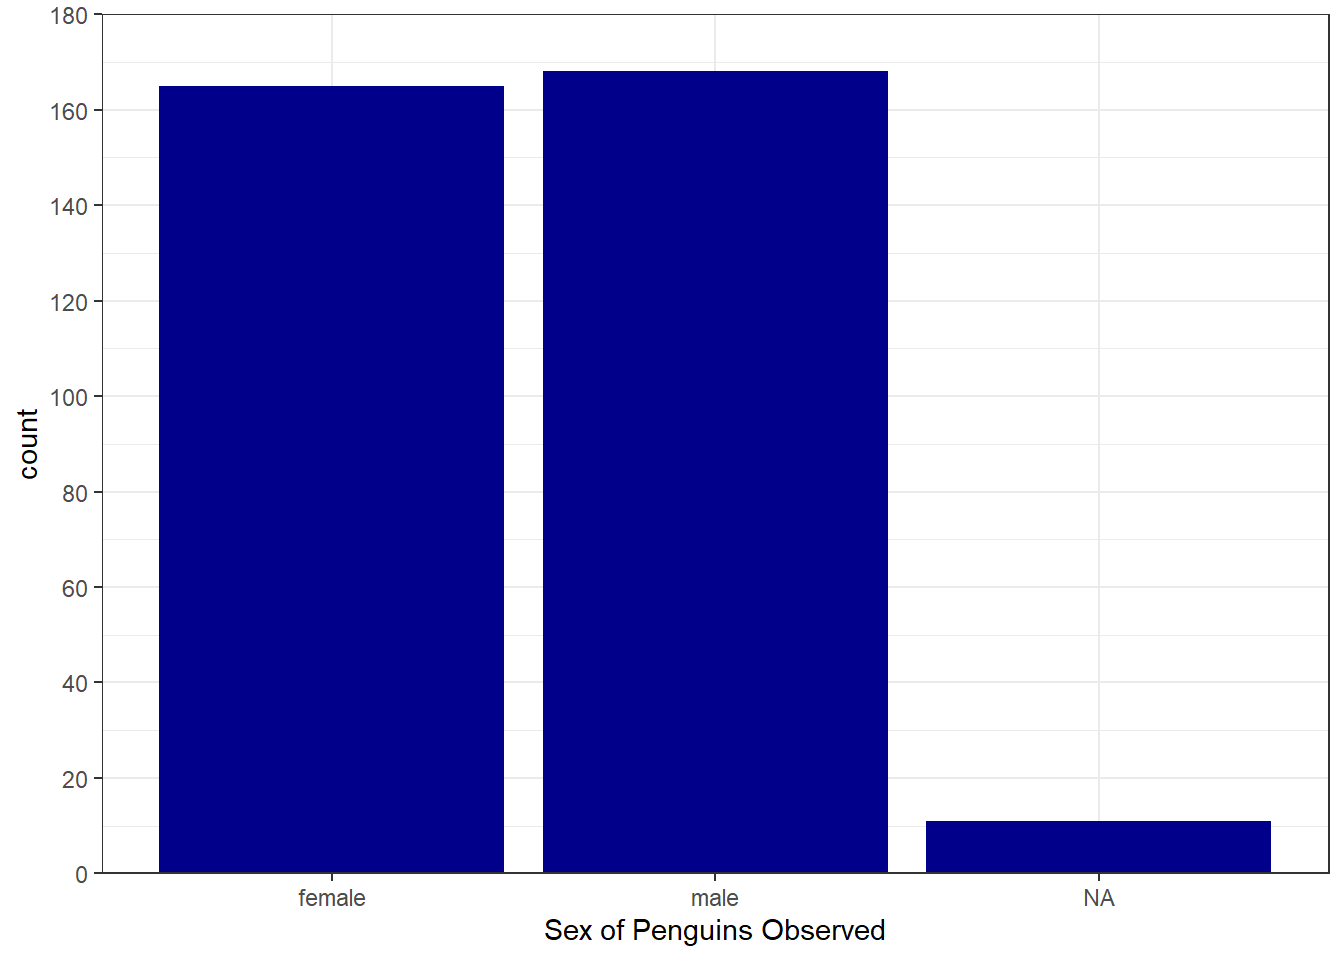
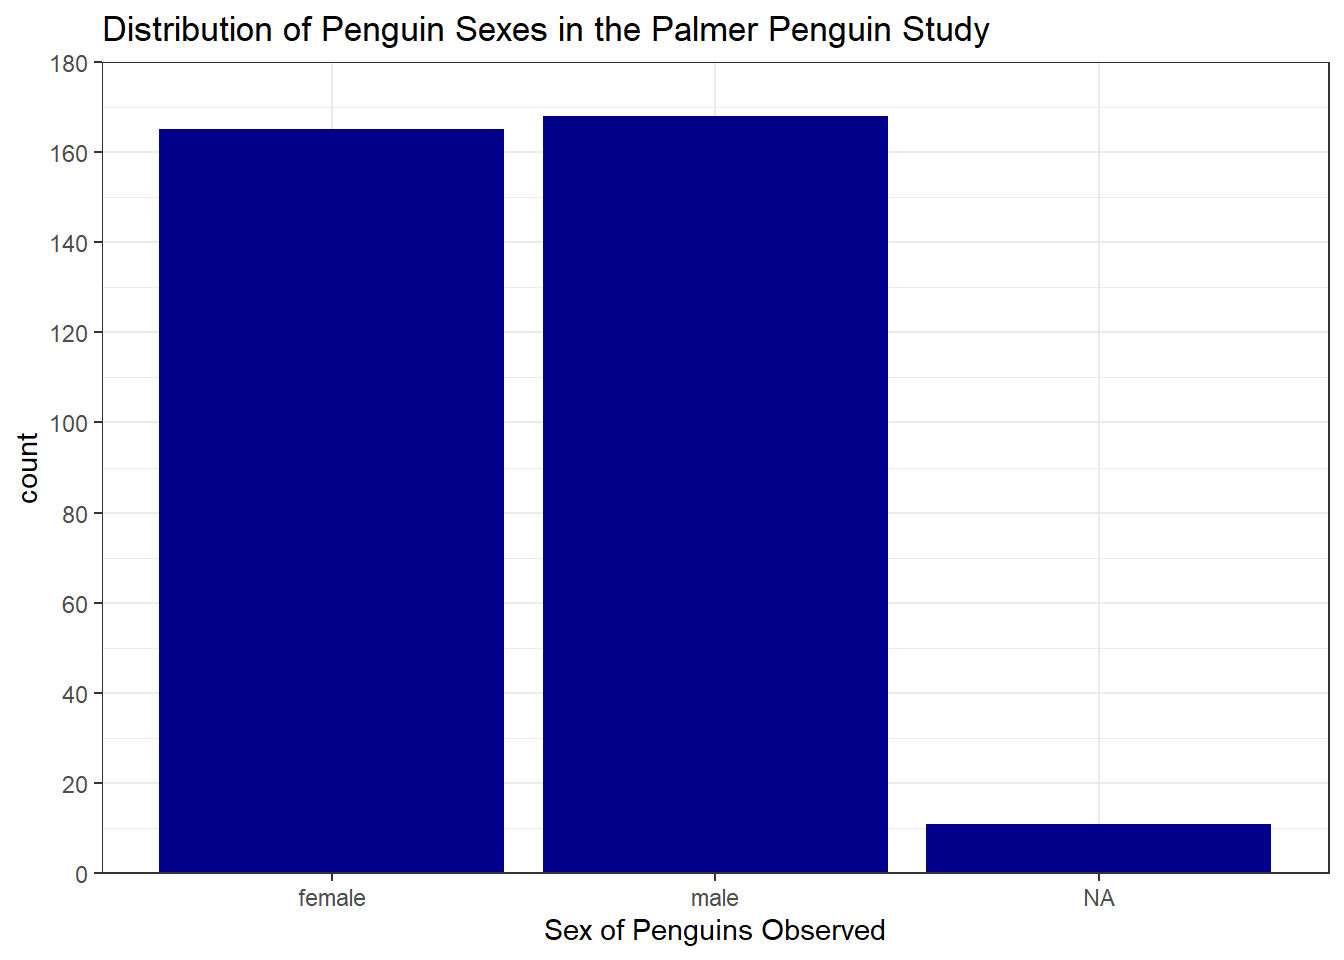
Built site for gh-pages

diff --git a/bw/bw-uni.html b/bw/bw-uni.html
@@ -935,7 +935,7 @@ window.document.addEventListener("DOMContentLoaded", function (event) {
 <span id="cb2-21"><a href="#cb2-21"></a><span class="in">penguins %&gt;%</span></span>
 <span id="cb2-22"><a href="#cb2-22"></a><span class="in">  ggplot(aes(x = sex)) +</span></span>
 <span id="cb2-23"><a href="#cb2-23"></a><span class="in">  geom_bar(fill = 'darkblue') +</span></span>
-<span id="cb2-24"><a href="#cb2-24"></a><span class="in">  labs(x = "Sex of Penguins Observed") +</span></span>
+<span id="cb2-24"><a href="#cb2-24"></a><span class="in">  labs(x = "Sex of Penguins Observed", title = "Distribution of Penguin Sexes in the Palmer Penguin Study") +</span></span>
 <span id="cb2-25"><a href="#cb2-25"></a><span class="in">  scale_y_continuous(expand = c(0, 0), limits = c(0, 180),breaks = seq(0,180, by = 20)) +</span></span>
 <span id="cb2-26"><a href="#cb2-26"></a><span class="in">  theme_bw()</span></span>
 <span id="cb2-27"><a href="#cb2-27"></a><span class="in">```</span></span></code><button title="Copy to Clipboard" class="code-copy-button" data-in-quarto-modal=""><i class="bi"></i></button></pre></div>
